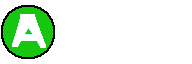
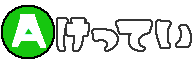
画像更新

Changed region(s): [[0.2812, 0.25, 1.0, 0.8125], [0.6875, 0.75, 0.75, 0.8125]]

diff --git a/HewProject/HewProject/Stage11.cpp b/HewProject/HewProject/Stage11.cpp
@@ -2,6 +2,8 @@
 #include "CSceneManager.h"
 #include "Tutorial.h"
 
+#define TEXT_POSZ (-0.35f)
+
 Stage11::Stage11()
 	: Stage(L"Stage1-1.csv", 1, CScene::SCENE_NAME::STAGE1_2)
 {
@@ -14,10 +16,35 @@ Stage11::Stage11()
 	tutorial->SetTexture(tutolialTex);
 	tutorial->SetTexture(tex);
 
+	D3D_LoadTexture(L"asset/UI/T_GetProtein.png", &getProteinTex);
+	D3D_LoadTexture(L"asset/Tutorial/T_GoChest.png", &goChestTex);
+
 	stage->SetTutorial(tutorial);
+
+	text = new UI(backBuffer, getProteinTex);
+
+	text->mTransform.pos = { 5.0f, 3.0f, TEXT_POSZ };
+	text->mTransform.scale = { 9.0f, 2.0f, TEXT_POSZ };
+}
+
+void Stage11::Update()
+{
+	Stage::Update();
+
+	//if()
+}
+
+void Stage11::Draw()
+{
+	Stage::Draw();
+
+	text->Draw();
 }
 
 Stage11::~Stage11()
 {
 	SAFE_RELEASE(tex);
+	CLASS_DELETE(text);
+	SAFE_RELEASE(getProteinTex);
+	SAFE_RELEASE(goChestTex);
 }

diff --git a/HewProject/HewProject/Stage.h b/HewProject/HewProject/Stage.h
@@ -4,6 +4,9 @@
 #include "DebugTable.h"
 #include<iostream>
 #include "Tutorial.h"
+
+class UI;
+
 class Stage :
     public CScene
 {
@@ -28,6 +31,8 @@ protected:
 
     Tutorial* tutorial = nullptr;
     D3DTEXTURE tutolialTex = NULL;
+
+   
 public:
 
     Stage();

diff --git a/HewProject/HewProject/Stage11.h b/HewProject/HewProject/Stage11.h
@@ -5,8 +5,17 @@ class Stage11 :
 {
 
     D3DTEXTURE tex;
+
+    D3DTEXTURE getProteinTex = NULL;
+    D3DTEXTURE goChestTex = NULL;
+
+    UI* text;
 public:
     Stage11();
+
+    void Update() override;
+
+    void Draw() override;
     ~Stage11();
 };
 
